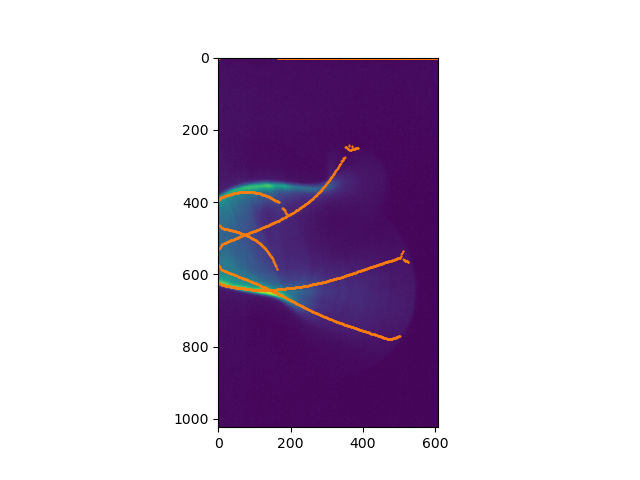
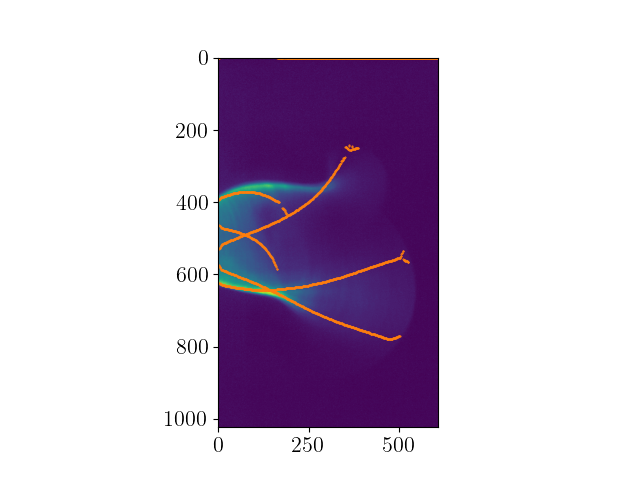
plots en draft paper

diff --git a/full_portrait_reference.py b/full_portrait_reference.py
@@ -2,17 +2,18 @@ import numpy as np
 import matplotlib.pyplot as plt
 from scipy.signal import find_peaks
 from skimage import exposure
-from tikzplotlib import save as tikz_save   
- 
+# from tikzplotlib import save as tikz_save   
+from matplotlib import rcParams
+
 plt.rcParams.update({
     "text.usetex": True,          # Usar LaTeX para renderizar texto
     "font.family": "serif",       # Familia de fuente (p. ej., Times New Roman)
-    "font.size": 14,              # Tamaño base de la fuente
+    "font.size": 18,              # Tamaño base de la fuente
     "axes.titlesize": 16,         # Tamaño del título
-    "axes.labelsize": 14,         # Tamaño de etiquetas de ejes
-    "xtick.labelsize": 12,        # Tamaño de etiquetas del eje x
-    "ytick.labelsize": 12,        # Tamaño de etiquetas del eje y
-    "legend.fontsize": 12,        # Tamaño de la leyenda
+    "axes.labelsize": 18,         # Tamaño de etiquetas de ejes
+    "xtick.labelsize": 16,        # Tamaño de etiquetas del eje x
+    "ytick.labelsize": 16,        # Tamaño de etiquetas del eje y
+    "legend.fontsize": 17,        # Tamaño de la leyenda
 })
 
 # Cerrar todas las figuras existentes
@@ -51,23 +52,26 @@ Asum_normalized = (Asum - Asum.min()) / (Asum.max() - Asum.min())
 Asum_eq = exposure.equalize_adapthist(Asum_normalized, clip_limit=0.03)
 #ax0.contourf(X/1,Y,Asum_eq**.4, cmap='inferno',levels=100,edgecolor='none')
 
-ax0.imshow(Asum_eq**.4, cmap='inferno',extent=(xmin, xmax/1, ymin, ymax),origin='lower')
-ax0.set_xlabel('x (mm)')
-ax0.set_ylabel('y (mm)')
+cm0 = ax0.imshow(Asum_eq**.4, cmap='inferno',extent=(xmin, xmax/1, ymin, ymax),origin='lower')
+ax0.set_xlabel('$x$ (mm)')
+ax0.set_ylabel('$y$ (mm)')
 
 ax0.set_ylim([-50,50])
 ax0.set_aspect('equal')
 for i in range(0,1000,100):
     ax0.plot(X[0]/1,(YT[i]-nyorigin)/escalax,'w.',markersize=.1)
+ax0.plot(X[0]/1,(YT[3]-nyorigin)/escalax,'w.',markersize=1)
 X,T = np.meshgrid(np.arange(xmin, xmax, (xmax-xmin)/Asum.shape[1]),
                   np.arange(tmin, tmax, dt))
 cm1 = ax1.contourf(T,X/1,(YT-nyorigin)/escalax/1/Lbandera, cmap='binary',levels=20)
-ax1.set_xlabel('t (s)')
-ax1.set_ylabel('x (mm)')
+ax1.set_xlabel('$t$ (s)')
+ax1.set_ylabel('$x$ (mm)')
 plt.colorbar(cm1, ax=ax1, label='$y/L$')
 
-
-fig0.savefig('figures/image_sum_full.png', dpi=300, bbox_inches='tight')
+fig0.tight_layout()
+fig1.tight_layout()
+fig0.savefig('figures/ref_image_sum_full.png', dpi=300, bbox_inches='tight')
+fig1.savefig('figures/ref_spatio_temporal.png', dpi=300, bbox_inches='tight')
 figb, axb = plt.subplots()
 YT_Fourier = np.fft.fft(YT, axis=0)
 frec_YT = np.fft.fftfreq(YT.shape[0], d=1/fsampling)
@@ -86,10 +90,10 @@ axb.plot([Frecuencia,Frecuencia] , [y1,FYT[frec_YT>2][peak_freqs][0]], 'r', line
 axb.set_xlim([0,100])
 xticks1 = axb.get_xticks()
 axb.set_xticks(np.append(xticks1, Frecuencia))  # Agrega posición
-axb.set_xticklabels([f"{tick:.1f}" for tick in axb.get_xticks()])  # Formatea etiquetas
+axb.set_xticklabels([f"{tick:.0f}" for tick in axb.get_xticks()])  # Formatea etiquetas
 
  
 axb.grid()
 axb.set_xlabel('Frecuency (Hz)')
 axb.set_ylabel('PSD')
-tikz_save('figures/tikzs/freq_YT_full.tikz')
+figb.savefig('figures/Fourier_YT_full.png', dpi=300, bbox_inches='tight')

diff --git a/analisis_amp_02.py b/analisis_amp_02.py
@@ -27,9 +27,18 @@ from skimage.morphology import medial_axis
 from skimage.measure import label, regionprops
 from skimage.segmentation import clear_border
 from skimage import feature
-
+plt.rcParams.update({
+    "text.usetex": True,          # Usar LaTeX para renderizar texto
+    "font.family": "serif",       # Familia de fuente (p. ej., Times New Roman)
+    "font.size": 18,              # Tamaño base de la fuente
+    "axes.titlesize": 16,         # Tamaño del título
+    "axes.labelsize": 18,         # Tamaño de etiquetas de ejes
+    "xtick.labelsize": 16,        # Tamaño de etiquetas del eje x
+    "ytick.labelsize": 16,        # Tamaño de etiquetas del eje y
+    "legend.fontsize": 17,        # Tamaño de la leyenda
+})
 escalax = 1/0.138 # px/mm
-Lbandera = 128.5 # mm
+Lbandera = 138.5 # mm
 
 if socket.gethostname() == 'CNRS304952':
     dirw = 'C:/Users/IRL2027 2/Documents/Juan/GitHub/2024_flags/figures/'
@@ -104,6 +113,9 @@ ax.plot(Velocidad,Amplitud,'ks',fillstyle='none',linestyle='none')
 ax.set_xlabel('$U$[m/s]')
 ax.set_ylabel('$A/L$')
 ax.grid()
+ax.set_ylim([0,0.8])
+ax.set_yticks(np.arange(0, 0.9, 0.1))
+fig.tight_layout()
 fig.savefig(dirw+'Amplitudes_'+caso+'.png')
  
 
@@ -116,11 +128,13 @@ fig3,ax3 = plt.subplots()
 ax3.plot(np.sqrt(U), Amplitud, 'ks', fillstyle='none', label='Data')
 Us = np.linspace(0,U[npoints],100)
 # ax3.plot(Us, intercept + slope * Us[:], 'r--', label=f'Ajuste lineal ($R^2 = {r_value**2:.3f}$)')
-ax3.plot(Us**.5,fun_Amplitud(Us**.5), 'r--', label=f'Linear Fit')
+# ax3.plot(Us**.5,fun_Amplitud(Us**.5), 'r--', label=f'Linear Fit')
 ax3.set_xlabel(r'$\sqrt{U - U_c}$[m/s]$^{1/2}$')
 ax3.set_ylabel('$A/L$')
 # ax3.plot([0,0],[1.78e5,5e5],'k--')
 ax3.legend()
 ax3.grid()
+ax3.set_ylim([0,0.8])
+ax3.set_yticks(np.arange(0, 0.9, 0.1))
 fig3.tight_layout()
 fig3.savefig(dirw+'Amplitudes_'+caso+'_ajuste.png')

diff --git a/analisis_amp_00.py b/analisis_amp_00.py
@@ -23,9 +23,16 @@ from scipy.ndimage import distance_transform_edt
 from skimage.morphology import medial_axis
 from skimage.measure import label, regionprops
 from skimage.segmentation import clear_border
-# delta_x_px = 105
-# delta_x = 15
-# escalax = delta_x_px/delta_x  # px/mm
+plt.rcParams.update({
+    "text.usetex": True,          # Usar LaTeX para renderizar texto
+    "font.family": "serif",       # Familia de fuente (p. ej., Times New Roman)
+    "font.size": 18,              # Tamaño base de la fuente
+    "axes.titlesize": 16,         # Tamaño del título
+    "axes.labelsize": 18,         # Tamaño de etiquetas de ejes
+    "xtick.labelsize": 16,        # Tamaño de etiquetas del eje x
+    "ytick.labelsize": 16,        # Tamaño de etiquetas del eje y
+    "legend.fontsize": 17,        # Tamaño de la leyenda
+})
 
 
 # delta_y_px = 471
@@ -41,7 +48,7 @@ plt.close('all')
 import gc
 gc.collect()
 escalax = 1/0.138 # px/mm
-Lbandera = 128.5 # mm
+Lbandera = 138.5 # mm
 
 if socket.gethostname() == 'CNRS304952':
     dirw = 'C:/Users/IRL2027 2/Documents/Juan/GitHub/2024_flags/figures/'
@@ -126,6 +133,9 @@ ax.plot(Velocidad,Amplitud,'ks',fillstyle='none',linestyle='none')
 ax.set_xlabel('$U$[m/s]')
 ax.set_ylabel('$A/L$')
 ax.grid()
+ax.set_ylim([0,0.8])
+ax.set_yticks(np.arange(0, 0.9, 0.1))
+fig.tight_layout()
 fig.savefig(dirw+'Amplitudes_'+caso+'.png')
 
 
@@ -147,6 +157,8 @@ ax3.set_ylabel('$A/L$')
 # ax3.plot([0,0],[1.78e5,5e5],'k--')
 ax3.legend()
 ax3.grid()
+ax3.set_ylim([0,0.8])
+ax3.set_yticks(np.arange(0, 0.9, 0.1))
 fig3.tight_layout()
 fig3.savefig(dirw+'Amplitudes_'+caso+'_ajuste.png')
 

diff --git a/analisis_amp_01.py b/analisis_amp_01.py
@@ -28,12 +28,21 @@ from skimage.measure import label, regionprops
 from skimage.segmentation import clear_border
 from skimage import feature
 plt.close('all')
-
+plt.rcParams.update({
+    "text.usetex": True,          # Usar LaTeX para renderizar texto
+    "font.family": "serif",       # Familia de fuente (p. ej., Times New Roman)
+    "font.size": 18,              # Tamaño base de la fuente
+    "axes.titlesize": 16,         # Tamaño del título
+    "axes.labelsize": 18,         # Tamaño de etiquetas de ejes
+    "xtick.labelsize": 16,        # Tamaño de etiquetas del eje x
+    "ytick.labelsize": 16,        # Tamaño de etiquetas del eje y
+    "legend.fontsize": 17,        # Tamaño de la leyenda
+})
 # Opcional: Forzar la recolección de basura (gc) para liberar memoria
 import gc
 gc.collect()
 escalax = 1/0.138 # px/mm
-Lbandera = 128.5 # mm
+Lbandera = 138.5 # mm
 
 if socket.gethostname() == 'CNRS304952':
     dirw = 'C:/Users/IRL2027 2/Documents/Juan/GitHub/2024_flags/figures/'
@@ -105,6 +114,10 @@ ax.plot(Velocidad,Amplitud,'ks',fillstyle='none',linestyle='none')
 ax.set_xlabel('$U$[m/s]')
 ax.set_ylabel('$A/L$')
 ax.grid()
+ax.set_ylim([0,0.8])
+ax.set_yticks(np.arange(0, 0.9, 0.1))
+fig.tight_layout()
+
 fig.savefig(dirw+'Amplitudes_'+caso+'.png')
  
 
@@ -123,5 +136,7 @@ ax3.set_ylabel('$A/L$')
 # ax3.plot([0,0],[1.78e5,5e5],'k--')
 ax3.legend()
 ax3.grid()
+ax3.set_ylim([0,0.8])
+ax3.set_yticks(np.arange(0, 0.9, 0.1))
 fig3.tight_layout()
 fig3.savefig(dirw+'Amplitudes_'+caso+'_ajuste.png')

diff --git a/analisis_freq_amp_00.py b/analisis_freq_amp_00.py
@@ -179,3 +179,14 @@ ax5.plot(Frecuencia*delta_turb(x_carac,Velocidad,nu)/Velocidad,Amplitud, 'ks', f
 ax5.grid()
 ax5.set_ylabel(r'$A/L$')
 ax5.set_xlabel(r'$f_{foil}\delta_w/U$')
+
+
+fig5,ax5 = plt.subplots()
+delta_w = delta_turb(x_carac,Velocidad,nu)*0.5
+ax5.plot(Frecuencia*delta_w/(Velocidad/2),Amplitud, 'ks', fillstyle='none')
+ax5.grid()
+ax5.set_ylabel(r'$A/L$')
+ax5.set_xlabel(r'$f_{foil}\delta_w/U$')
+
+
+((Papel_80.E*Papel_80.thickness**3) / (rhoa*Papel_80.L**3))**0.5
